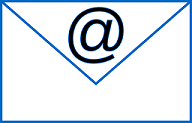
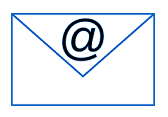
added keyboard, fixed email image and updated projects

Changed region(s): [[0.0, 0.0, 1.0, 1.0]]

diff --git a/projects.html b/projects.html
@@ -15,7 +15,9 @@
 <div id="container">
 <div id="logo">
 <img src="logo.png" width="*" height="*" alt="Angela T. Labianca-Campbell"></div>
-
+<div id="container">
+<div id="logo">
+<img src="keyboard.jpg" width="*" height="*" alt="Angela T. Labianca-Campbell"></div>
 <nav>
   <ul>
   <!-- navigation links for only the desktop view (hidden in tablet and phone view) -->
